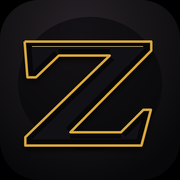
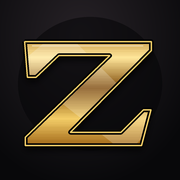
Add files via upload

Changed region(s): [[0.1111, 0.2222, 0.8611, 0.8333], [0.1389, 0.0, 0.1667, 0.0278]]

diff --git a/index.html b/index.html
@@ -8,8 +8,8 @@
     <meta name="apple-mobile-web-app-status-bar-style" content="black-translucent" />
     <meta name="apple-mobile-web-app-title" content="ZIGGY PLAYER" />
     <meta name="description" content="STAY GOLDとGLORIAを楽しむ、端末内保存型の個人用プレイヤー" />
-    <link rel="apple-touch-icon" href="./apple-touch-icon.png?v=2" />
-    <link rel="icon" href="./apple-touch-icon.png?v=2" type="image/png" />
+    <link rel="apple-touch-icon" href="./apple-touch-icon.png?v=3" />
+    <link rel="icon" href="./apple-touch-icon.png?v=3" type="image/png" />
     <style>
 :root {
   color-scheme: dark;
@@ -210,6 +210,38 @@ footer {
   font-weight: 800;
   letter-spacing: 0.025em;
   text-shadow: 0 0 1.2rem rgba(233, 184, 74, 0.22);
+}
+
+.song-title-english {
+  font-family: Didot, "Bodoni 72", "Bodoni 72 Smallcaps", "Bodoni MT", Georgia, serif;
+  font-style: italic;
+  font-weight: 700;
+  letter-spacing: -0.025em;
+}
+
+.song-title-japanese {
+  font-family: "MS Gothic", "ＭＳ ゴシック", Osaka-Mono, "Hiragino Kaku Gothic ProN", "Yu Gothic", monospace;
+  font-style: normal;
+  font-weight: 700;
+  letter-spacing: 0.055em;
+}
+
+.reel-current.song-title-english {
+  letter-spacing: -0.035em;
+  transform: skewX(-3deg);
+}
+
+.reel-current.song-title-japanese {
+  transform: scaleX(0.97);
+}
+
+.player-section h2.song-title-english {
+  font-size: 1.28rem;
+  letter-spacing: -0.02em;
+}
+
+.player-section h2.song-title-japanese {
+  letter-spacing: 0.045em;
 }
 
 .reel-selection {
@@ -656,7 +688,7 @@ footer {
 
     </style>
     <title>ZIGGY PLAYER</title>
-    <!-- Standalone build v1.6: custom Z icon and rock-style title -->
+    <!-- Standalone build v1.7: gold chrome icon and bilingual song-title typography -->
   </head>
   <body>
     <main class="app-shell">
@@ -994,16 +1026,24 @@ function normalizeIndex(index) {
   return (index + SONGS.length) % SONGS.length;
 }
 
+function applySongTitleStyle(element, title) {
+  const hasJapanese = /[\u3040-\u30ff\u3400-\u9fff\uf900-\ufaff\uff66-\uff9f]/u.test(title);
+  const isEnglishOnly = !hasJapanese;
+  element.textContent = title;
+  element.classList.toggle("song-title-english", isEnglishOnly);
+  element.classList.toggle("song-title-japanese", !isEnglishOnly);
+}
+
 function renderReel(direction = null) {
   const previous = SONGS[normalizeIndex(state.songIndex - 1)];
   const current = SONGS[state.songIndex];
   const next = SONGS[normalizeIndex(state.songIndex + 1)];
 
-  $("reelPrevious").textContent = previous.title;
-  $("reelCurrent").textContent = current.title;
+  applySongTitleStyle($("reelPrevious"), previous.title);
+  applySongTitleStyle($("reelCurrent"), current.title);
   $("reelCurrent").setAttribute("aria-label", `${current.title}、選択中`);
-  $("reelNext").textContent = next.title;
-  $("nowPlayingTitle").textContent = current.title;
+  applySongTitleStyle($("reelNext"), next.title);
+  applySongTitleStyle($("nowPlayingTitle"), current.title);
 
   if (direction) {
     reelLines.classList.remove("move-up", "move-down");